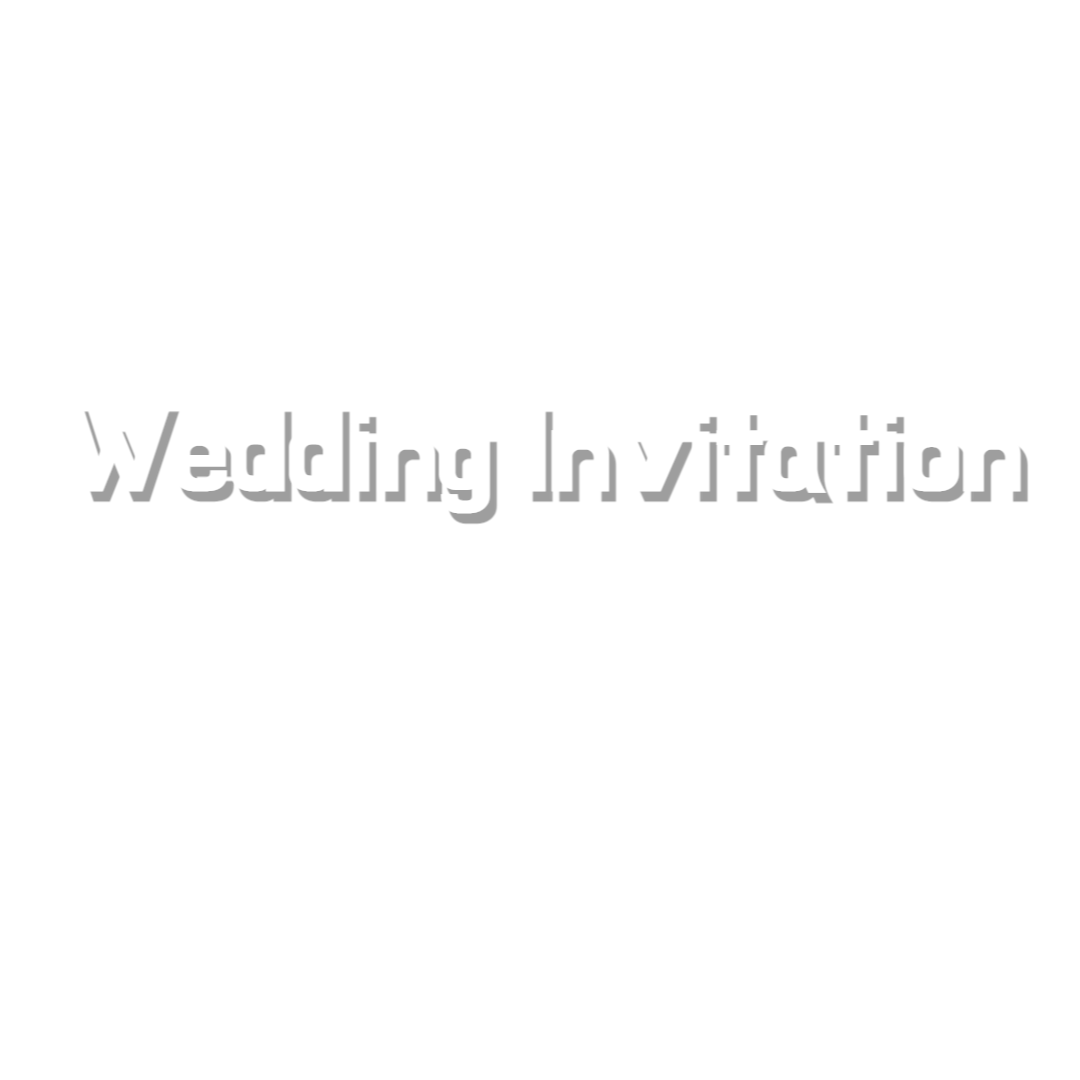
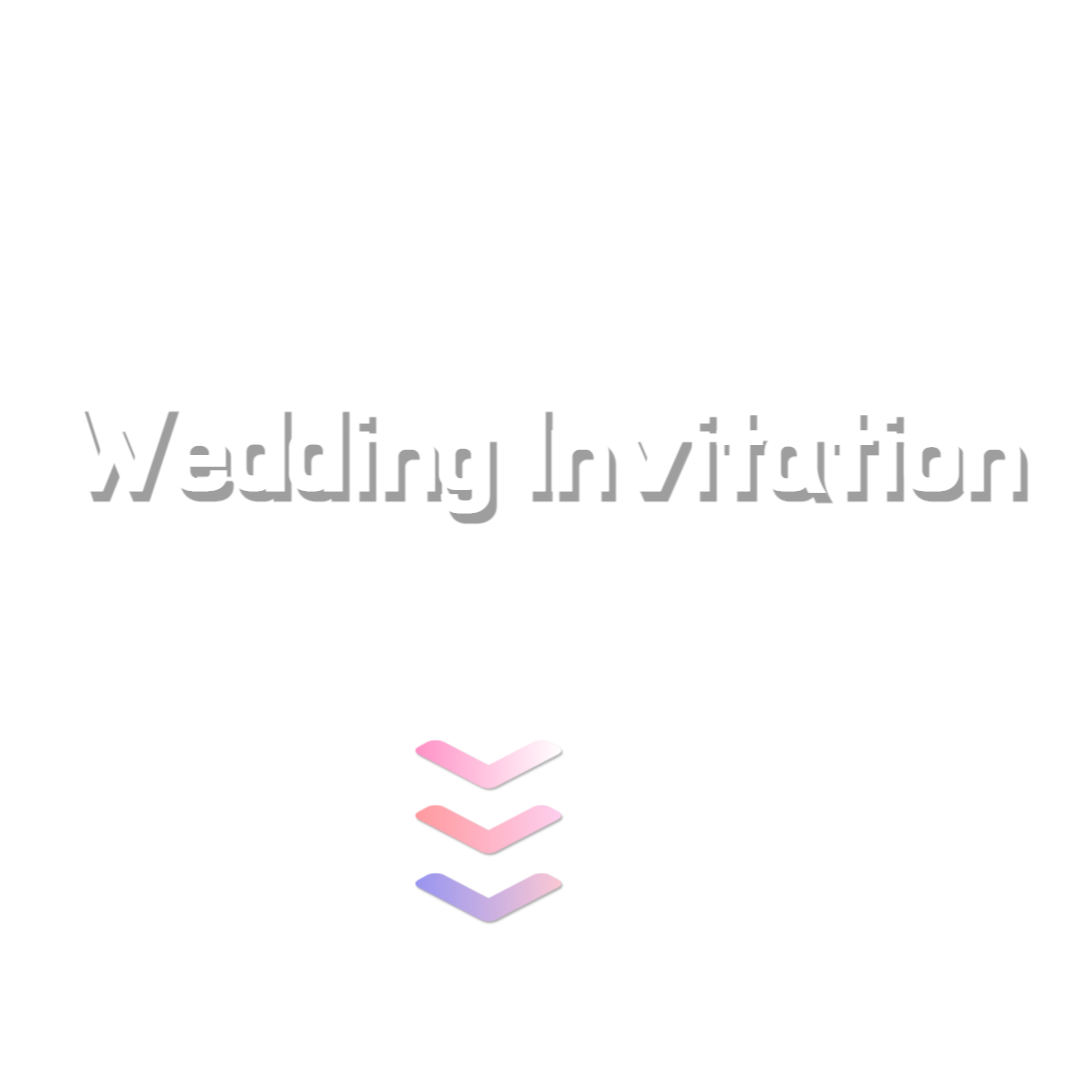
Add a location page using kakao map

Changed region(s): [[0.3667, 0.6722, 0.5194, 0.8556]]

diff --git a/index.html b/index.html
@@ -18,6 +18,7 @@
     <script src="https://unpkg.com/typewriter-effect@latest/dist/core.js"></script>
     <script src="static/scripts/index.js"></script>
     <script src="static/lightslider/js/lightslider.js"></script>
+    <script type="text/javascript" src="//dapi.kakao.com/v2/maps/sdk.js?appkey=777f1cdaebe0e1856383da5ead561eed"></script>
 </head>
 <body>
     <div class="container">
@@ -31,6 +32,8 @@
                 <img class="greeting__tag greeting__tag--start" src="./assets/images/greeting/greeting_tag_start.png">
                 <img class="greeting__tag greeting__tag--spring" src="./assets/images/greeting/greeting_tag_spring.png">
                 <img class="greeting__tag greeting__tag--blossom" src="./assets/images/greeting/greeting_tag_blossom.png">
+                <img class="greeting__tag greeting__arrow1" src="./assets/images/greeting/arrow1.png">
+                <img class="greeting__tag greeting__arrow2" src="./assets/images/greeting/arrow2.png">
                 <div class="greeting__subtitle">
                     <img class="greeting__title" src="./assets/images/greeting/greeting_location.png">
                 </div>
@@ -127,7 +130,25 @@
             </ul> 
         </div>
         <div class="location">
-
+            <div class="location__title">
+                <img class="page__title--blossom" src="./assets/images/common/flower_blossom.png">
+                <img class="page__title" src="./assets/images/location/location_title.png">
+                <div style="clear:both;"></div>
+            </div>
+            <div class="location_background">
+                <div id="map" class="location__map"></div>
+                <div class="location__site--map">
+                    <a href="https://map.kakao.com/link/map/WI%EC%BB%A8%EB%B2%A4%EC%85%98,37.286436720150924,127.03586061664267" target='_blank'><img class="location__kakao" src="./assets/images/location/kakao_map.png"></a>
+                    <a href="https://map.naver.com/v5/search/WI%EC%BB%A8%EB%B2%A4%EC%85%98/place/37590335?c=14141104.5430945,4479215.6797599,15,0,0,0,dh&placePath=%3Fentry%253Dbmp" target='_blank'><img class="location__naver" src="./assets/images/location/naver_map.png"></a>
+                    <a href="https://www.google.co.kr/maps/place/WI%EC%BB%A8%EB%B2%A4%EC%85%98/data=!3m1!4b1!4m5!3m4!1s0x357b5ca6350de1df:0xc6bd70ff2b912e0b!8m2!3d37.2871059!4d127.0372201" target='_blank'><img class="location__google" src="./assets/images/location/google_map.png"></a>
+                </div>
+                <img class="location__wi" src="./assets/images/location/WI_address.png">
+                <a href="tel:0312416000"><img class="location__wi--call" src="./assets/images/location/call_wi.png"></a>
+                <img class="location__transport" src="./assets/images/location/by_car.png">
+                <img class="location__transport" src="./assets/images/location/by_shutle.png">
+                <img class="location__transport" src="./assets/images/location/by_bus.png">
+            </div>
+            
         </div>
         <div class="account">
 

diff --git a/static/styles/style.css b/static/styles/style.css
@@ -59,13 +59,6 @@ div {
     background-position : top;
 }
 
-.greeting__message {
-    position:fixed;
-    left:0;
-    right:0;
-    z-index:10;
-}
-
 .greeting__title {
     width:100%;
 }
@@ -127,6 +120,53 @@ div {
     animation: shake 4s infinite;
 }
 
+.greeting__arrow1, .greeting__arrow2 {
+    margin-left : auto;
+    margin-right : auto;
+    left:0;
+    right: 0;
+    bottom: 18%;
+}
+
+.greeting__arrow1 {
+    animation: darklight_arrow1 2.5s infinite;
+}
+
+.greeting__arrow2 {
+    bottom: 15%;
+    animation: darklight_arrow2 2.5s infinite;
+}
+
+@keyframes darklight_arrow1{
+    0% {
+        opacity: 0.3;
+    }
+    15% {
+        opacity: 1;
+    }
+    75% {
+        opacity: 1;
+    }
+    100% {
+        opacity: 0;
+    }
+}
+
+@keyframes darklight_arrow2{
+    0% {
+        opacity: 0;
+    }
+    50% {
+        opacity: 1;
+    }
+    75% {
+        opacity: 1;
+    }
+    100% {
+        opacity: 0;
+    }
+}
+
 @keyframes shake{
     0% {
         transform: rotate(var(--deg, 0deg)) translateX(calc(-1*var(--shakeX, 5px)));
@@ -183,7 +223,7 @@ div {
 }
 
 .invitation__message {
-    margin:15% 0 15% 0;
+    margin:15% 0 20% 0;
     width: 100%;
 }
 
@@ -242,7 +282,7 @@ div {
 
 /* gallery : customize the carousel (lightslider)*/
 .gallery__title {
-    margin: 10% 0 0 0;
+    margin: 10% 0 5% 0;
 }
 #imageGallery, #imageGallery li {
     height: 700px !important;
@@ -270,22 +310,60 @@ div {
 
 .lSAction > a {
     margin-top: -40% !important;
-    animation: darklight 3s infinite;
+    animation: darklight 2.5s infinite;
 }
 
 @keyframes darklight{
     0% {
         opacity: 0.3;
     }
-    30% {
+    35% {
         opacity: 1;
     }
-    70% {
+    65% {
         opacity: 1;
     }
     100% {
         opacity: 0.3;
     }
+}
+
+/* location */
+.location__title{
+    margin:15% 0 5% 0;
+}
+.location_background {
+    margin:0 auto 0 auto;
+    width: 80%;
+}
+.location__map{
+    /* margin:0 0 5% 0; */
+    width: 100%;
+    height: 400px;
+    border-radius: 10px 10px 0 0;
+}
+.location__site--map {
+    padding: 5% 0 5% 0;
+    margin: 0 0 5% 0;
+    background-color:lightpink;
+    text-align: center;
+    border-radius: 0 0 10px 10px;
+}
+
+.location__kakao, .location__naver, .location__google {
+    width: 10%;
+    margin:0 5% 0 5%;
+}
+
+.location__wi {
+    width: 80%;
+}
+.location__wi--call {
+    /* margin:0 0 0 3%; */
+    width: 15%;
+}
+.location__transport {
+    width: 90%;
 }
 
 /* pad */
@@ -309,6 +387,9 @@ div {
     .lSGallery, .lSGallery li {
         height: 120px !important;
     }
+    .location__map{
+        height: 300px;
+    }
 } 
 
 /* mobile */
@@ -331,5 +412,8 @@ div {
     }
     .lSGallery, .lSGallery li {
         height: 90px !important;
+    }
+    .location__map{
+        height: 200px;
     }
 }

diff --git a/static/scripts/index.js b/static/scripts/index.js
@@ -49,5 +49,20 @@ $(function(){
                 selector: '#imageGallery .lslide'
             });
         }   
-    });  
+    });
+    // location : kakao map
+    var latitude = 37.286436720150924;
+    var longitude = 127.03586061664267;
+    var container = document.getElementById('map'); // DOM reference for the map
+    var options = { // map option
+        center: new kakao.maps.LatLng(latitude, longitude), //center of the map.
+        level: 4 // level of the map
+    };
+
+    var map = new kakao.maps.Map(container, options); // Return map object
+    var markerPosition  = new kakao.maps.LatLng(latitude, longitude); 
+    var marker = new kakao.maps.Marker({
+        position: markerPosition
+    });
+    marker.setMap(map);
 });
